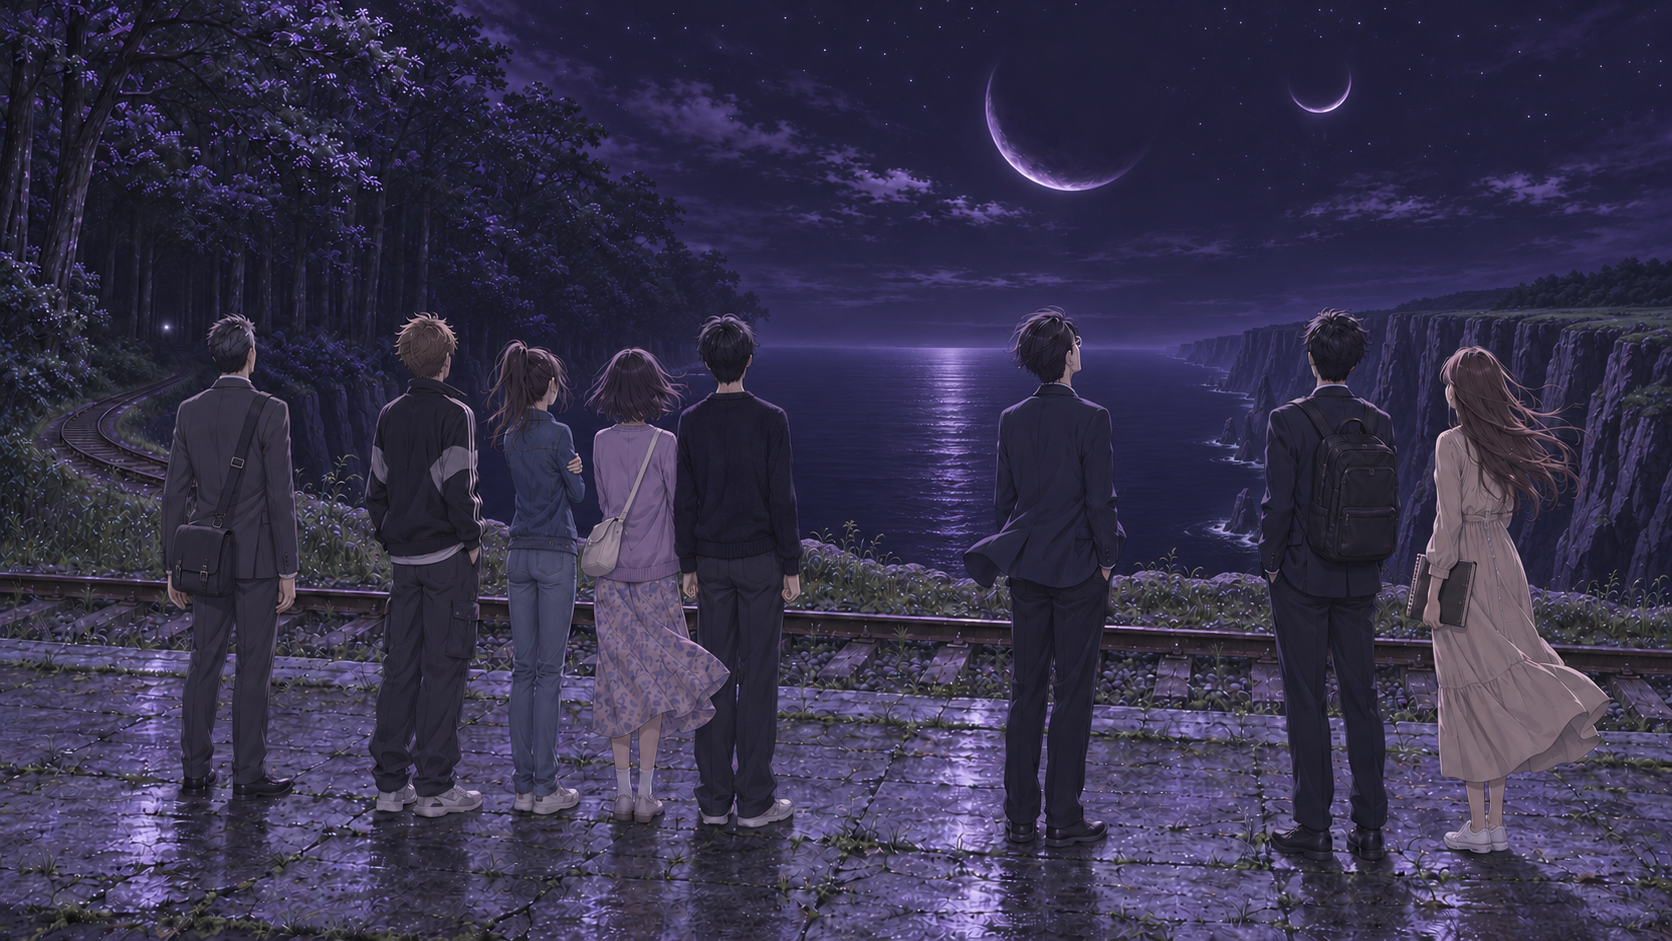
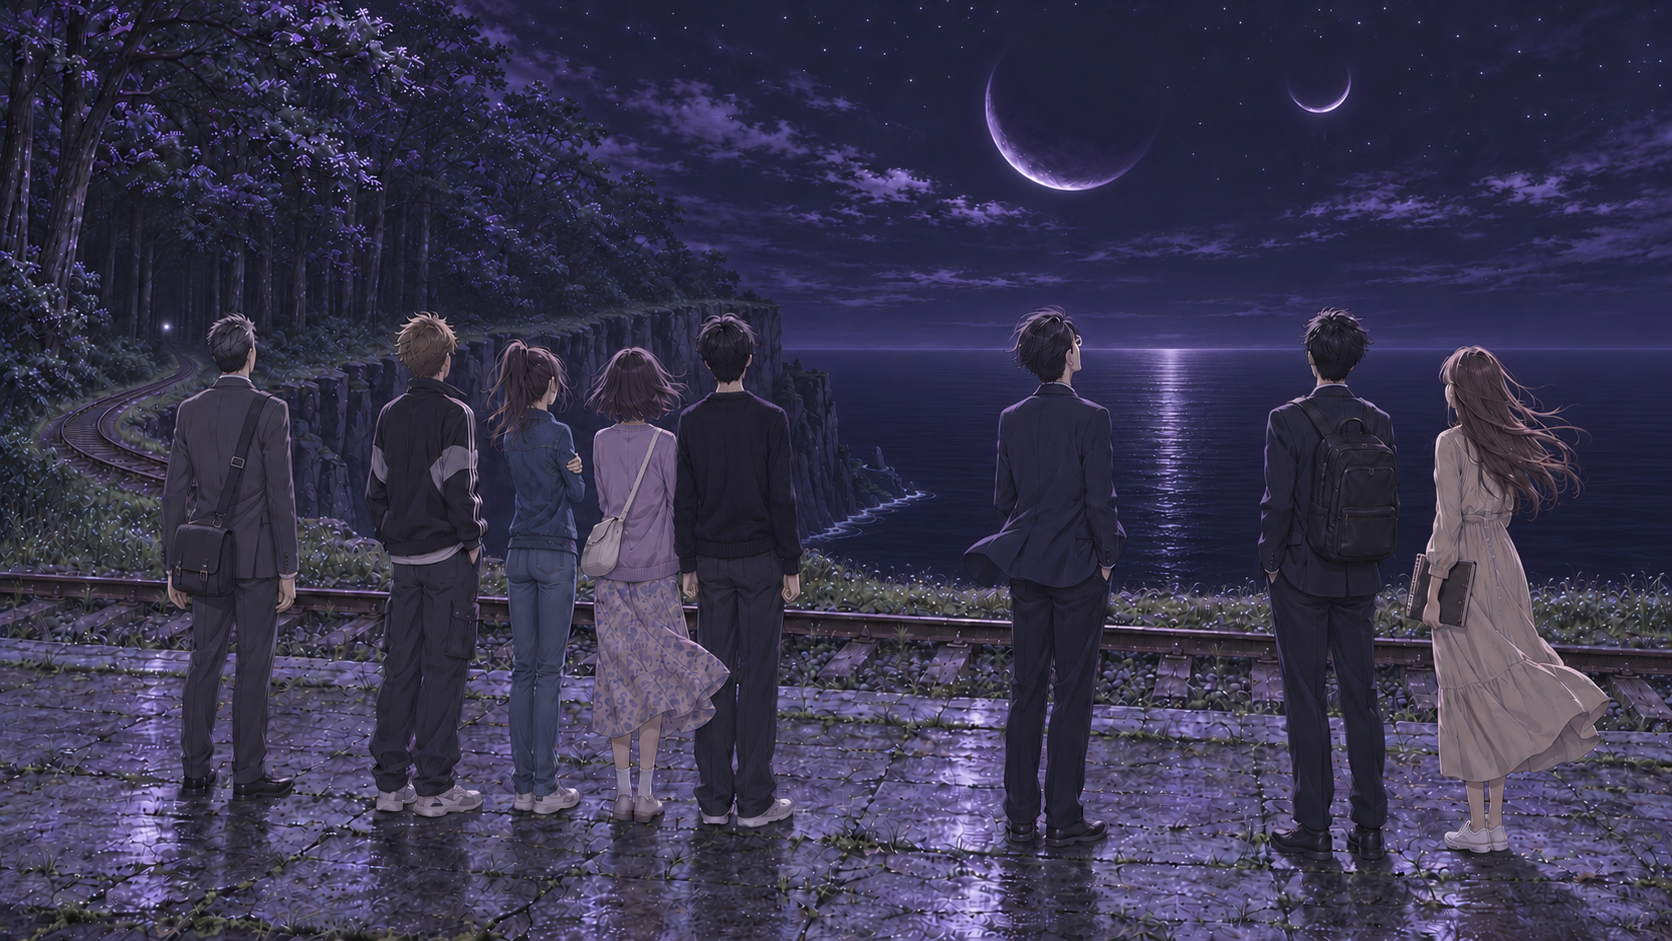
Keep the Jishui cliff on the left only
Remove the wall of cliffs on the right of b1a_act5_train_gone so the sea
runs open to the horizon, and make the cliff under the forest on the left
read clearly, with surf at its foot. Sync the act 5 and act 6 prompts and
the art bible to match.

diff --git a/packages/stories/raw/trainAdventure/branch_1a/act6.md b/packages/stories/raw/trainAdventure/branch_1a/act6.md
@@ -51,7 +51,7 @@ reuse branch_1a/b1a_act6_blame
 **旁白**：李杰、恵美和慷慨大叔三人朝著那個黑洞洞的候車室走去，留下了還在互相指責的學生和膽小眼鏡男。
 
 ```bg waiting_room
-the waiting room inside the abandoned wooden station house of Jishui: a long, low single-storey room with a dusty plank floor strewn with dead leaves; dark weathered plank walls with cracks and mould stains; exposed old roof beams heavy with cobwebs; rows of old wooden slatted benches draped with spider webs, all facing the same way; along the front wall, window openings in old wooden frames with no glass look out onto the cracked stone platform, the empty railway track just beyond it, then the grassy, rocky edge of a high sea cliff and the flat black sea far below it, with a line of tall dark cliffs running along the coast in the distance, and no moon inside the openings; on the far end wall a large yellowed parchment map, torn at the edges and half peeling off the planks, held by rusty nails, with only faint ink lines of paths and a forest and no readable writing; a broken ticket window with wooden bars in one corner; cold violet moonlight falls in through the window openings in pale shafts; no lamps and no electric light inside. Camera: a medium shot inside the room at standing eye level, from beside the benches near the far end wall, looking at the map on the wall in three-quarter view. Li Jie (28-year-old man, short black hair, dark suit jacket, loosened navy tie, white shirt, black backpack) stands in front of the map holding up his phone, its white torch beam lighting a bright pool on the yellowed parchment; the rest of the room stays dark. Beside him on the left, Yamamoto (late-40s man, short grey-streaked hair, grey suit, navy striped tie) leans in, squinting and frowning at the map, baffled. On the right, a little behind Li Jie, Emi (young woman, long chestnut hair, beige cotton dress, white wired earphones), her sketchbook to her chest, gazes at the map with clear, sharp, focused eyes, reading it intently. Dust hangs in the torch beam. Only the people named here are in view. Muted cold palette with the small white glow of the phone torch, moody cinematic visual-novel background art, 16:9, no text, no logo
+the waiting room inside the abandoned wooden station house of Jishui: a long, low single-storey room with a dusty plank floor strewn with dead leaves; dark weathered plank walls with cracks and mould stains; exposed old roof beams heavy with cobwebs; rows of old wooden slatted benches draped with spider webs, all facing the same way; along the front wall, window openings in old wooden frames with no glass look out onto the cracked stone platform, the empty railway track just beyond it, then the grassy, rocky edge of a high sea cliff and the flat black sea far below it, with the sheer dark face of the cliff under the forest to one side and open sea to the horizon on the other, and no moon inside the openings; on the far end wall a large yellowed parchment map, torn at the edges and half peeling off the planks, held by rusty nails, with only faint ink lines of paths and a forest and no readable writing; a broken ticket window with wooden bars in one corner; cold violet moonlight falls in through the window openings in pale shafts; no lamps and no electric light inside. Camera: a medium shot inside the room at standing eye level, from beside the benches near the far end wall, looking at the map on the wall in three-quarter view. Li Jie (28-year-old man, short black hair, dark suit jacket, loosened navy tie, white shirt, black backpack) stands in front of the map holding up his phone, its white torch beam lighting a bright pool on the yellowed parchment; the rest of the room stays dark. Beside him on the left, Yamamoto (late-40s man, short grey-streaked hair, grey suit, navy striped tie) leans in, squinting and frowning at the map, baffled. On the right, a little behind Li Jie, Emi (young woman, long chestnut hair, beige cotton dress, white wired earphones), her sketchbook to her chest, gazes at the map with clear, sharp, focused eyes, reading it intently. Dust hangs in the torch beam. Only the people named here are in view. Muted cold palette with the small white glow of the phone torch, moody cinematic visual-novel background art, 16:9, no text, no logo
 ```
 
 **旁白**：候車室裡積了厚厚一層灰，空氣中充滿了木頭腐朽和塵土的味道。幾排木製長椅上佈滿了蜘蛛網。
@@ -85,7 +85,7 @@ the waiting room inside the abandoned wooden station house of Jishui: a long, lo
 **慷慨大叔**：(臉色一沉)不行，我得出去看看！這群年輕人太衝動了，萬一真鬧出事來就糟了！
 
 ```bg through_window
-the waiting room inside the abandoned wooden station house of Jishui: a long, low single-storey room with a dusty plank floor strewn with dead leaves; dark weathered plank walls with cracks and mould stains; exposed old roof beams heavy with cobwebs; rows of old wooden slatted benches draped with spider webs, all facing the same way; along the front wall, window openings in old wooden frames with no glass look out onto the cracked stone platform, the empty railway track just beyond it, then the grassy, rocky edge of a high sea cliff and the flat black sea far below it, with a line of tall dark cliffs running along the coast in the distance, and no moon inside the openings; on the far end wall a large yellowed parchment map, torn at the edges and half peeling off the planks, held by rusty nails, with only faint ink lines of paths and a forest and no readable writing; a broken ticket window with wooden bars in one corner; cold violet moonlight falls in through the window openings in pale shafts; no lamps and no electric light inside. Camera: inside the dark waiting room at standing eye level, behind Li Jie and Emi, who stand at one of the glassless window openings in the front wall, looking out. Li Jie (28-year-old man, short black hair, dark suit jacket, black backpack) on the left of the opening and Emi (young woman, long chestnut hair, beige cotton dress, white wired earphones, plain white canvas sneakers) on the right, both seen from behind in three-quarter, dark shapes against the moonlit opening, Emi holding her sketchbook. Through the window opening, framed by its old wooden mullions: the cracked grey-white stone platform under cold violet moonlight, the empty track, the grassy cliff edge just past it, the black sea far below and tall dark cliffs along the coast, no moon visible. Out on the platform a loud argument, everyone facing each other, nobody walking away yet, from left to right: Yamamoto (late-40s man, short grey-streaked hair, no glasses, grey suit, navy striped tie, no bag, since he left it in the waiting room) steps in with one arm stretched out, trying to calm them; Saito Ren (rimless glasses, navy blazer over a white tee) leans forward shouting at the students; Kenta (light-brown hair, black-and-grey track jacket) jabs a finger at Saito, shouting back; Asuka (brown ponytail, denim jacket, blue jeans) shouts with both fists clenched; Misaki (dark bob, lavender cardigan, floral skirt, cream shoulder bag) cringes beside her; Takumi (black knit sweater) stands behind them, grim. The people outside are small. Only the people named here are in view. Muted cold palette, moody cinematic visual-novel background art, 16:9, no text, no logo
+the waiting room inside the abandoned wooden station house of Jishui: a long, low single-storey room with a dusty plank floor strewn with dead leaves; dark weathered plank walls with cracks and mould stains; exposed old roof beams heavy with cobwebs; rows of old wooden slatted benches draped with spider webs, all facing the same way; along the front wall, window openings in old wooden frames with no glass look out onto the cracked stone platform, the empty railway track just beyond it, then the grassy, rocky edge of a high sea cliff and the flat black sea far below it, with the sheer dark face of the cliff under the forest to one side and open sea to the horizon on the other, and no moon inside the openings; on the far end wall a large yellowed parchment map, torn at the edges and half peeling off the planks, held by rusty nails, with only faint ink lines of paths and a forest and no readable writing; a broken ticket window with wooden bars in one corner; cold violet moonlight falls in through the window openings in pale shafts; no lamps and no electric light inside. Camera: inside the dark waiting room at standing eye level, behind Li Jie and Emi, who stand at one of the glassless window openings in the front wall, looking out. Li Jie (28-year-old man, short black hair, dark suit jacket, black backpack) on the left of the opening and Emi (young woman, long chestnut hair, beige cotton dress, white wired earphones, plain white canvas sneakers) on the right, both seen from behind in three-quarter, dark shapes against the moonlit opening, Emi holding her sketchbook. Through the window opening, framed by its old wooden mullions: the cracked grey-white stone platform under cold violet moonlight, the empty track, the grassy cliff edge just past it, the black sea far below and, to one side, the dark cliff face under the forest, no moon visible. Out on the platform a loud argument, everyone facing each other, nobody walking away yet, from left to right: Yamamoto (late-40s man, short grey-streaked hair, no glasses, grey suit, navy striped tie, no bag, since he left it in the waiting room) steps in with one arm stretched out, trying to calm them; Saito Ren (rimless glasses, navy blazer over a white tee) leans forward shouting at the students; Kenta (light-brown hair, black-and-grey track jacket) jabs a finger at Saito, shouting back; Asuka (brown ponytail, denim jacket, blue jeans) shouts with both fists clenched; Misaki (dark bob, lavender cardigan, floral skirt, cream shoulder bag) cringes beside her; Takumi (black knit sweater) stands behind them, grim. The people outside are small. Only the people named here are in view. Muted cold palette, moody cinematic visual-novel background art, 16:9, no text, no logo
 ```
 
 **旁白**：慷慨大叔快步走出候車室。李杰和恵美留在原地，透過破舊的窗戶看著外面的情況，只能聽到激烈的對話。

diff --git a/packages/stories/raw/trainAdventure/branch_1a/act5.md b/packages/stories/raw/trainAdventure/branch_1a/act5.md
@@ -125,7 +125,7 @@ the same Chuo Line commuter carriage as the reference image: side-facing navy pa
 **旁白**：自私中年男隔著車窗對外面大喊著什麼，臉上帶著得意的笑容。雖然聽不到聲音，但從他的口型和表情，不難猜出是在嘲笑他們的選擇。
 
 ```bg train_gone
-The abandoned rural station of Jishui at night, the train gone: a short platform of cracked grey-white stone slabs with moss in the cracks, and right beside its edge a single empty railway track. Camera: a wide shot at standing eye level from behind eight people standing at the platform edge, looking across the empty track. The station stands on top of a high sea cliff: just beyond the track a strip of wild grass ends at the rocky edge of the cliff, and far below it a flat black sea stretches to the horizon, faintly silvered, its nearest water hidden under the cliff edge. On the right, the coast continues as a wall of tall, dark, jagged cliffs dropping sheer to the sea, with faint white surf breaking on rocks at their foot far below, and above it hang two thin violet crescent moons, one large and one small, the large one on the left, their discs dark, like two eyes. On the left, the track curves away along the cliff top into a towering dark forest, and deep among the trees one tiny point of white light is just vanishing. The eight stand in loose groups with gaps between them, all seen from behind, from left to right: Yamamoto (late-40s man, short grey-streaked hair, no glasses, grey suit, navy striped tie, a dark messenger bag on his shoulder); the four university students close together, Kenta (messy light-brown hair, black-and-grey track jacket over a graphic tee), Asuka (high brown ponytail, denim jacket, blue jeans), Misaki (dark chin-length bob, lavender cardigan, cream shoulder bag), Takumi (short black hair, black knit sweater); Saito Ren (young man, short black hair, rimless glasses, navy blazer over a plain white tee) a little apart; then Li Jie (28-year-old man, short black hair, dark suit jacket, loosened navy tie, white shirt, black backpack) and, a step from him, Emi (young woman, long chestnut hair, beige cotton dress, white wired earphones, plain white canvas sneakers), her sketchbook at her side. Cold violet moonlight, sea wind lifting hair and coats. Only the people named here are in view, no train. Muted cold palette, moody cinematic visual-novel background art, 16:9, no text, no logo
+The abandoned rural station of Jishui at night, the train gone: a short platform of cracked grey-white stone slabs with moss in the cracks, and right beside its edge a single empty railway track. Camera: a wide shot at standing eye level from behind eight people standing at the platform edge, looking across the empty track. The station stands on top of a high sea cliff: just beyond the track a strip of wild grass ends at the rocky edge of the cliff, and far below it a flat black sea stretches to the horizon, faintly silvered, its nearest water hidden under the cliff edge. To the right there is only open sea out to a straight, unbroken horizon, with no land or cliffs, and above the sea hang two thin violet crescent moons, one large and one small, the large one on the left, their discs dark, like two eyes. On the left, the track curves away along the cliff top into a towering dark forest, deep among the trees one tiny point of white light is just vanishing, and below the forest the cliff shows plainly as a tall, sheer face of dark jagged rock dropping to the sea, with faint white surf breaking on rocks at its foot far below. The eight stand in loose groups with gaps between them, all seen from behind, from left to right: Yamamoto (late-40s man, short grey-streaked hair, no glasses, grey suit, navy striped tie, a dark messenger bag on his shoulder); the four university students close together, Kenta (messy light-brown hair, black-and-grey track jacket over a graphic tee), Asuka (high brown ponytail, denim jacket, blue jeans), Misaki (dark chin-length bob, lavender cardigan, cream shoulder bag), Takumi (short black hair, black knit sweater); Saito Ren (young man, short black hair, rimless glasses, navy blazer over a plain white tee) a little apart; then Li Jie (28-year-old man, short black hair, dark suit jacket, loosened navy tie, white shirt, black backpack) and, a step from him, Emi (young woman, long chestnut hair, beige cotton dress, white wired earphones, plain white canvas sneakers), her sketchbook at her side. Cold violet moonlight, sea wind lifting hair and coats. Only the people named here are in view, no train. Muted cold palette, moody cinematic visual-novel background art, 16:9, no text, no logo
 ```
 
 **旁白**：列車漸行漸遠，速度越來越快。車廂內的燈光在夜色中漸漸縮小，像一隻逐漸遠去的螢火蟲。

diff --git a/packages/stories/raw/trainAdventure/docs/art-bible.md b/packages/stories/raw/trainAdventure/docs/art-bible.md
@@ -97,10 +97,10 @@ These are settled from the story text and hold in every image, acts 1-6:
 
 ### Jishui station (branch 1a)
 
-The station is on the forest (left) side of the train. Seen from the platform: the station house along the far side with the forest right behind it, and the track and the black sea with the two moons on the other side. The line runs along the top of a high sea cliff, not a beach: past the track a strip of grass ends at the cliff edge, the sea lies far below, and to the right the coast is a wall of tall dark cliffs with surf on the rocks at their foot (act 5 hears 海浪拍打礁石). Hapadona asked for this on b1a_act5_train_gone. Every platform shot that faces the station house keeps the railway behind the camera, so it shows no train, no track and no moon. A shot that faces the sea (b1a_act5_train_gone) shows the empty track and the moons over the water, and no station house.
+The station is on the forest (left) side of the train. Seen from the platform: the station house along the far side with the forest right behind it, and the track and the black sea with the two moons on the other side. The line runs along the top of a high sea cliff, not a beach: past the track a strip of grass ends at the cliff edge, the sea lies far below. Facing the sea, the cliff shows on the left, as a sheer dark rock face under the forest where the track curves away, with surf on the rocks at its foot (act 5 hears 海浪拍打礁石). To the right is open sea out to a straight horizon, with no further cliffs. Hapadona asked for the cliff on b1a_act5_train_gone, then for the right-hand cliffs to go and the left one to read more clearly. Every platform shot that faces the station house keeps the railway behind the camera, so it shows no train, no track and no moon. A shot that faces the sea (b1a_act5_train_gone) shows the empty track and the moons over the water, and no station house.
 
 - **Platform reference** (`_reference/jishui_platform.png`, empty): eye level from the platform's track edge. The long single-storey station house runs along the back: tiled roof with deep eaves, plank walls, glassless windows, a wide open doorway onto the benches inside, the timetable board, paper lanterns under the eaves, and the 寂海 sign on two posts. The dirt path leaves the platform's far end on the right into the forest, and the left end has none. This holds for every shot, act 3 included: the sign points right to 幽冥之都, and the map in the waiting room shows the forest path branching off toward 幽冥之都.
-- **Waiting-room reference** (`_reference/jishui_waiting_room.png`, empty): a long low room with plank walls, cobwebbed roof beams and rows of slatted benches all facing one way. The front-wall windows look out onto the platform, the empty track, the grassy cliff edge and the black sea far below, with tall cliffs along the coast and no moon in them. A torn parchment map of paths and forest hangs on the far end wall, and a barred ticket window sits in the corner. There are no lamps inside; moonlight falls in through the windows in pale shafts.
+- **Waiting-room reference** (`_reference/jishui_waiting_room.png`, empty): a long low room with plank walls, cobwebbed roof beams and rows of slatted benches all facing one way. The front-wall windows look out onto the platform, the empty track, the grassy cliff edge and the black sea far below, with the dark cliff face under the forest to one side and no moon in them. A torn parchment map of paths and forest hangs on the far end wall, and a barred ticket window sits in the corner. There are no lamps inside; moonlight falls in through the windows in pale shafts.
 - **Sign:** 寂海 large, with ← 永恆之森 ｜ 幽冥之都 → beneath. It is readable only in the act 6 close-up (b1a_act6_sign). The image model kept writing the variant 恒, so 恆 there was retouched by hand to match the story text.
 
 ### 幽冥之都 (branch 1b, act 6)
